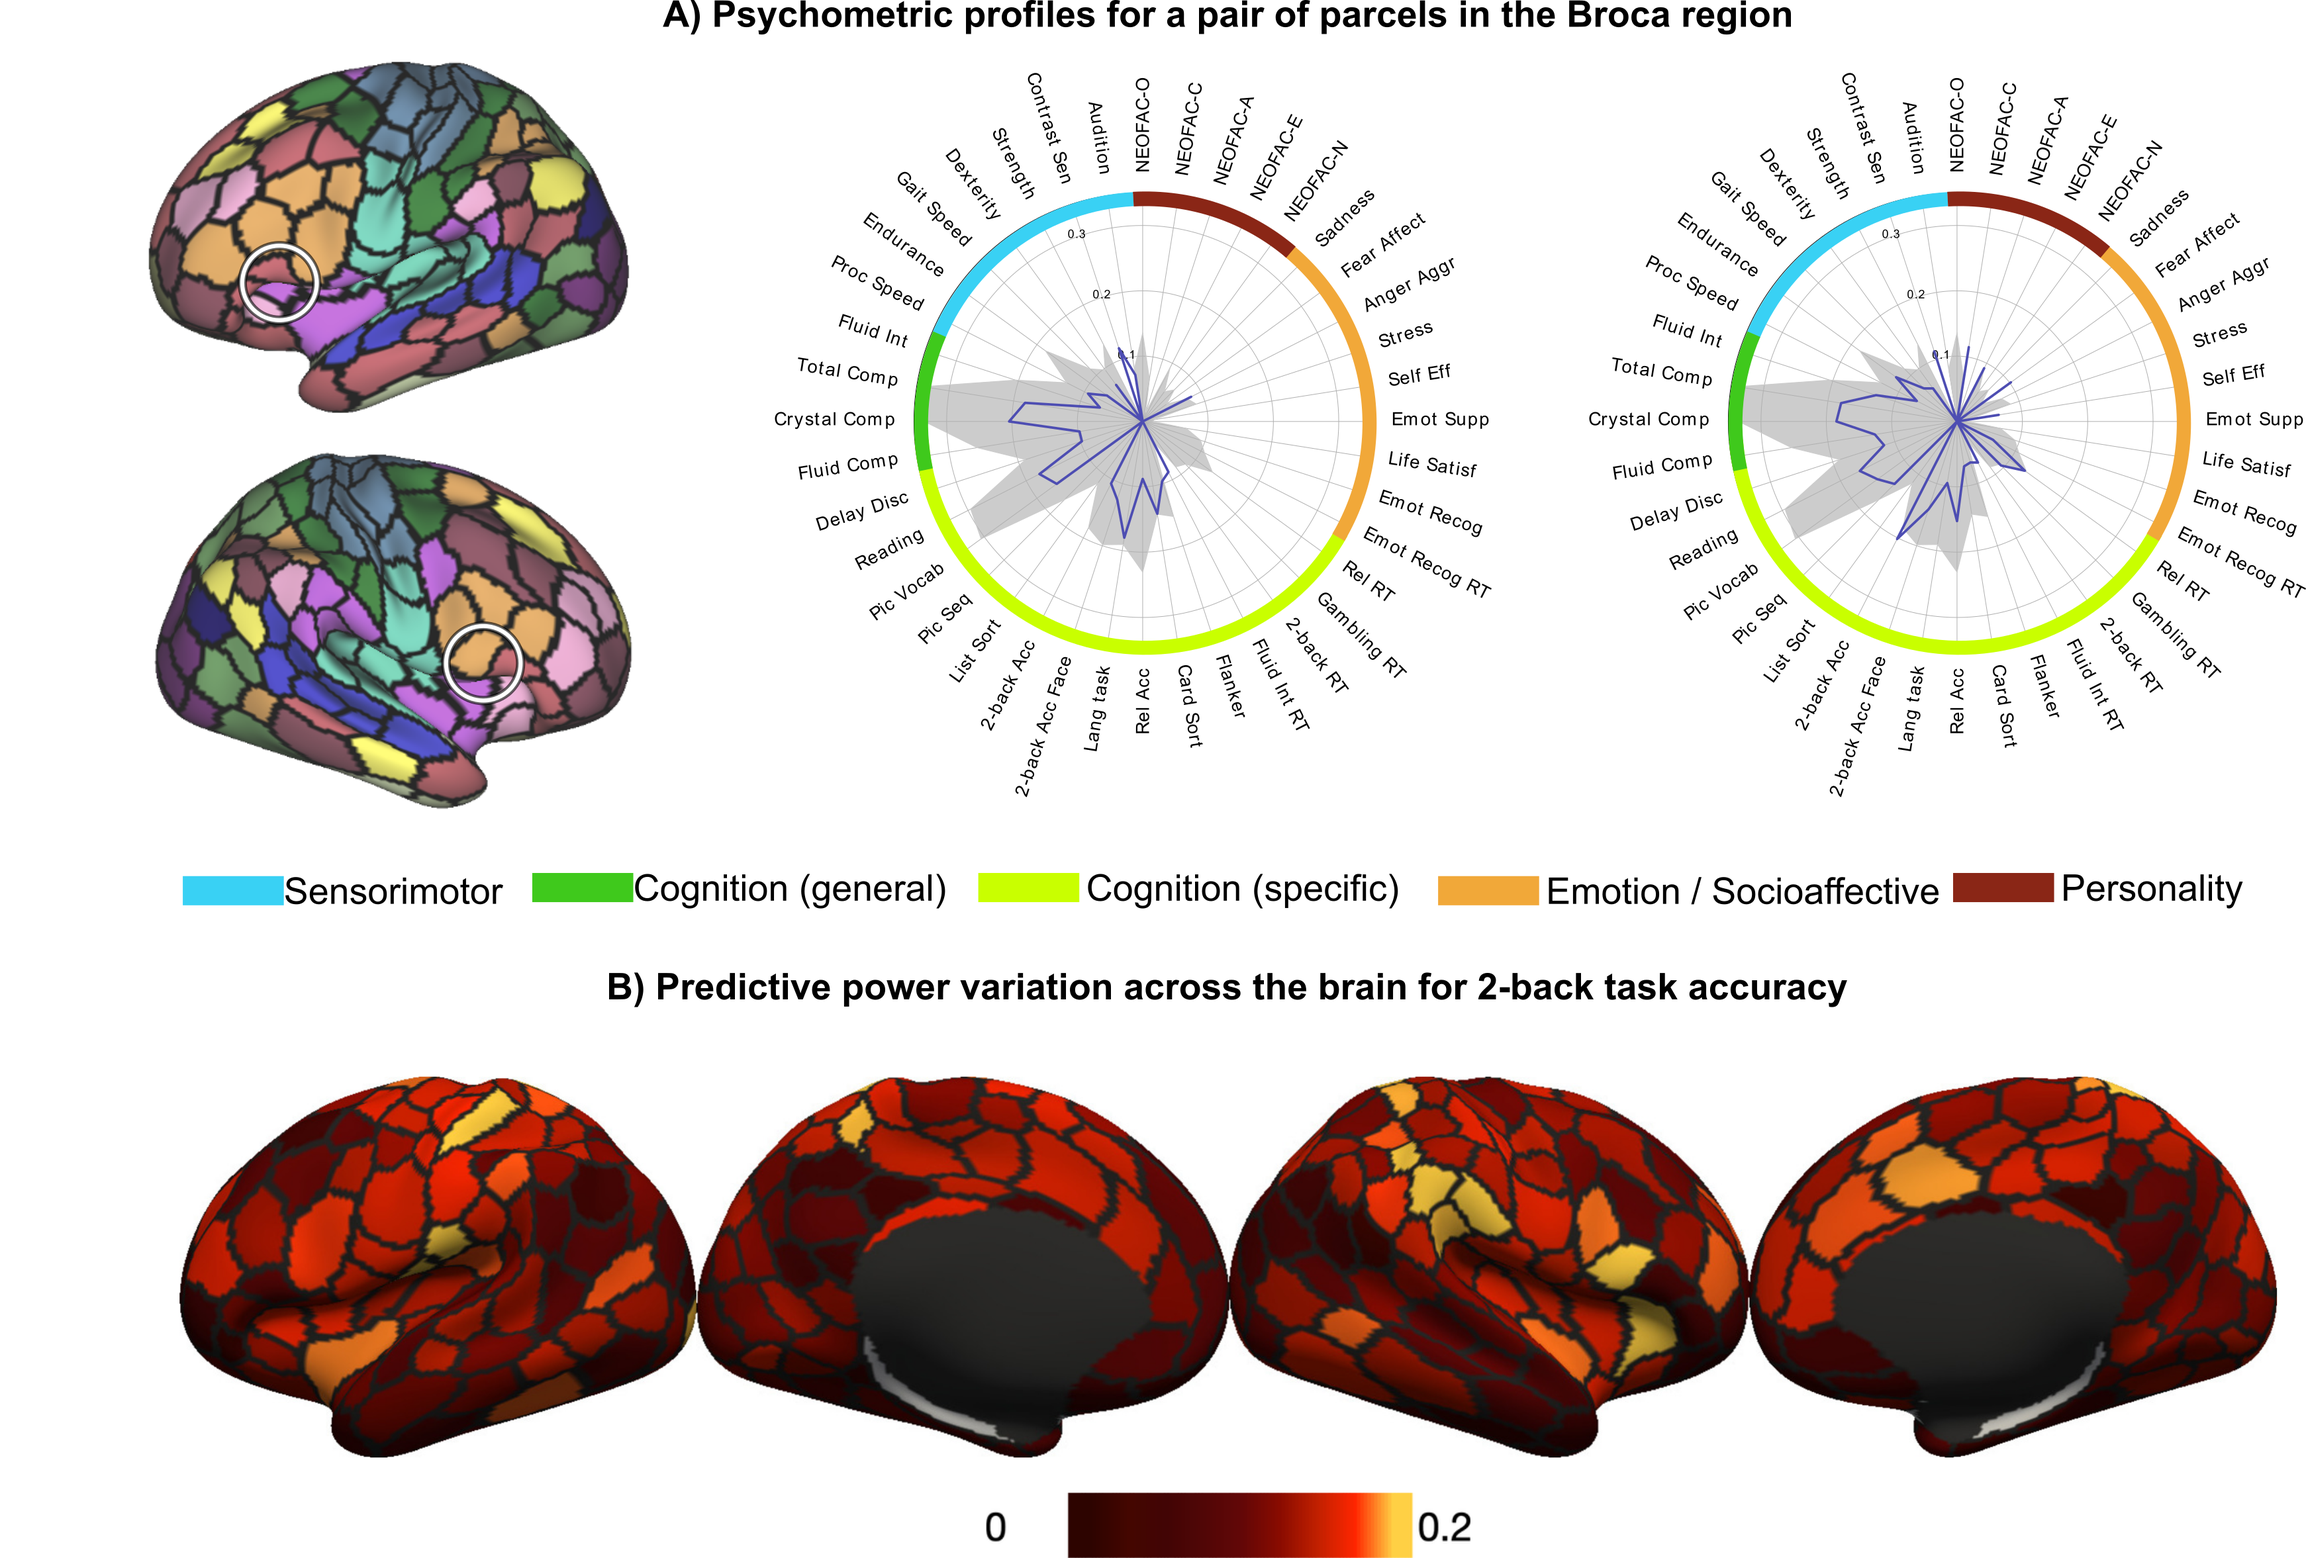
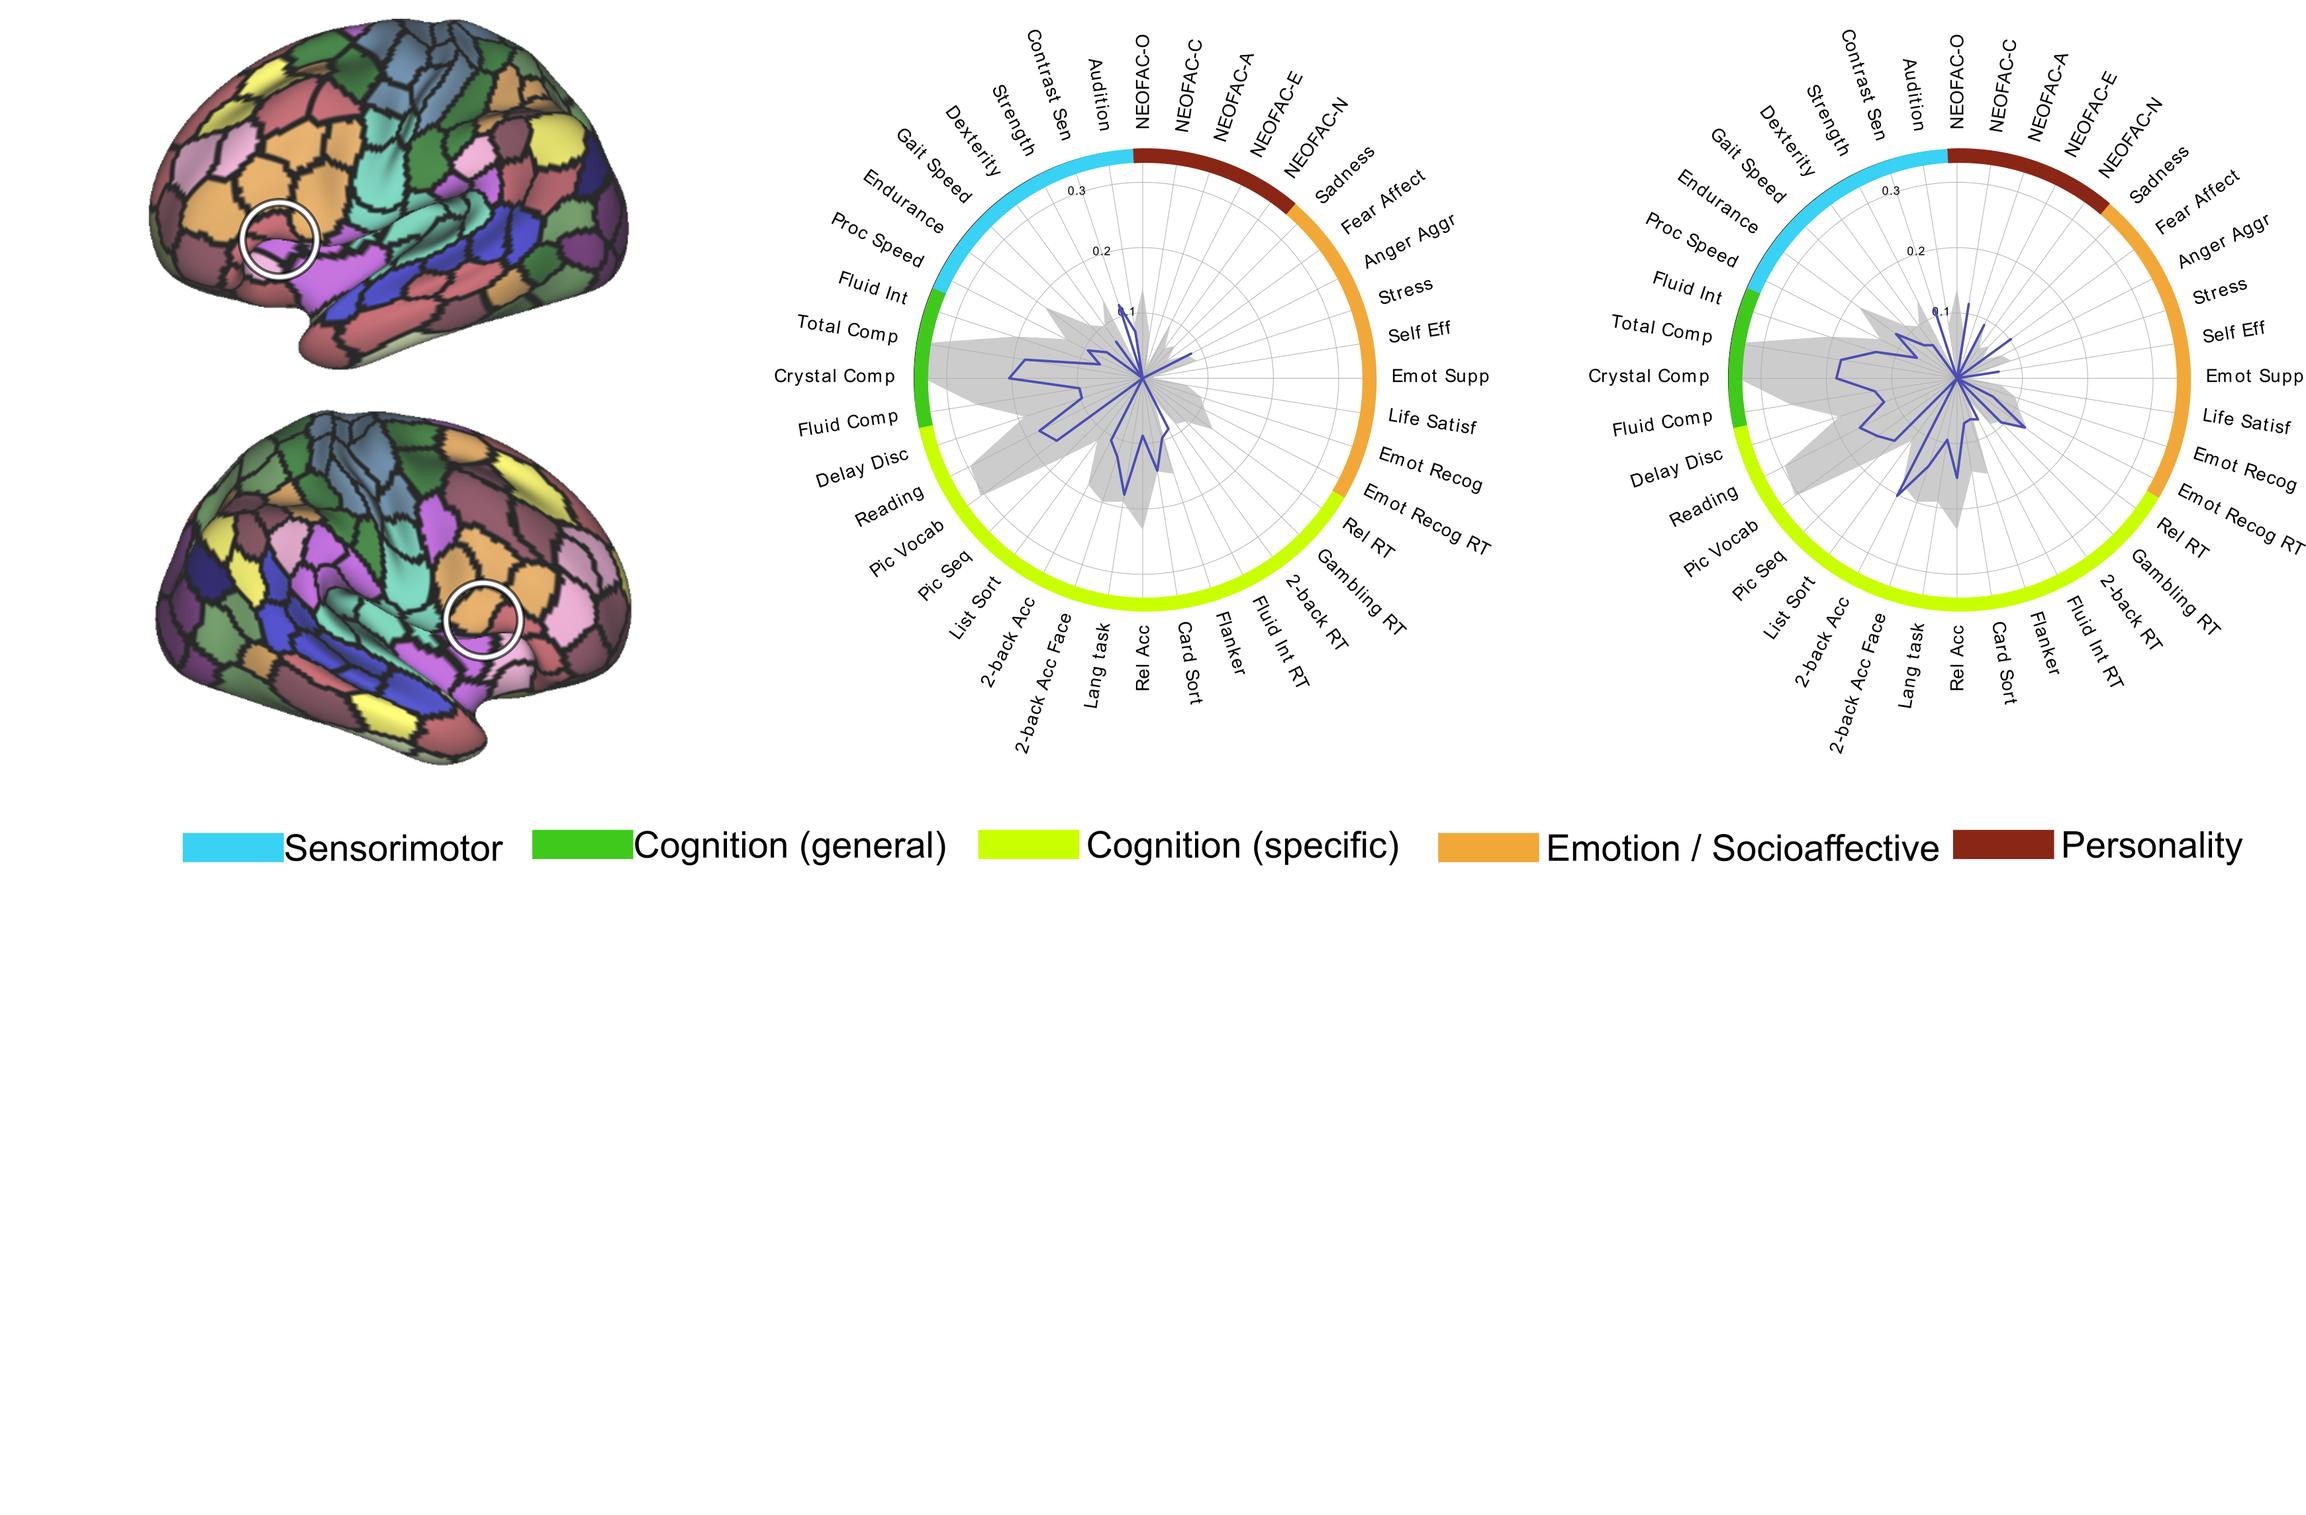
Updated root README image

diff --git a/README.md b/README.md
@@ -13,9 +13,9 @@ The CBPP framework is an effort to summarize the general workflow of and systema
 2. **Parcel-wise CBPP**: In order to improve the neurobiological validity (or interpretability) of psychometric prediction models, We propose a parcel-wise prediction approach, where models are trained on each parcel's connectivity profiles separately. We further illustrate 2 applications for this aproach:
 
     - **single parcel's psychometric profile** (i.e. a parcel's predictive power variation across different psychometric variables)
+    <img src="bin/images/root_readme_img1.png" height="300" />
     - **single psychometric variable's predictive power variation across parcels**
-
-<img src="bin/images/root_readme_img1.png" height="500" />
+    <img src="bin/images/root_readme_img2.png" height="200" />
 
 ## Replication
 
